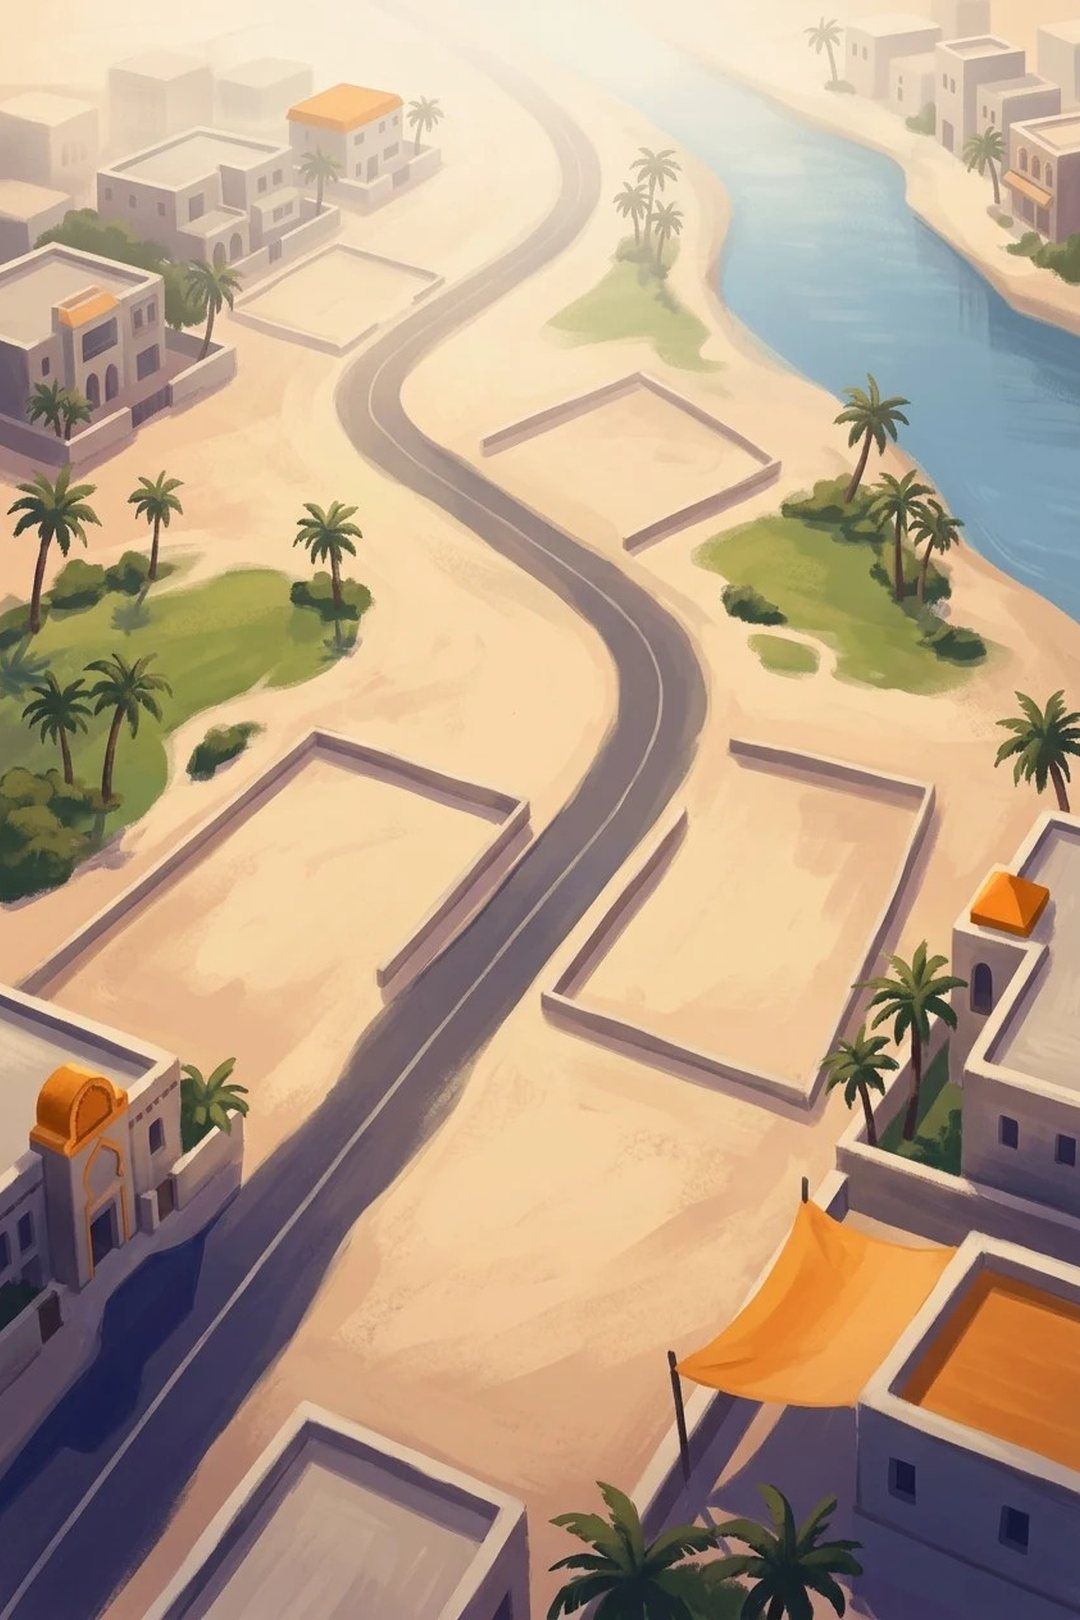
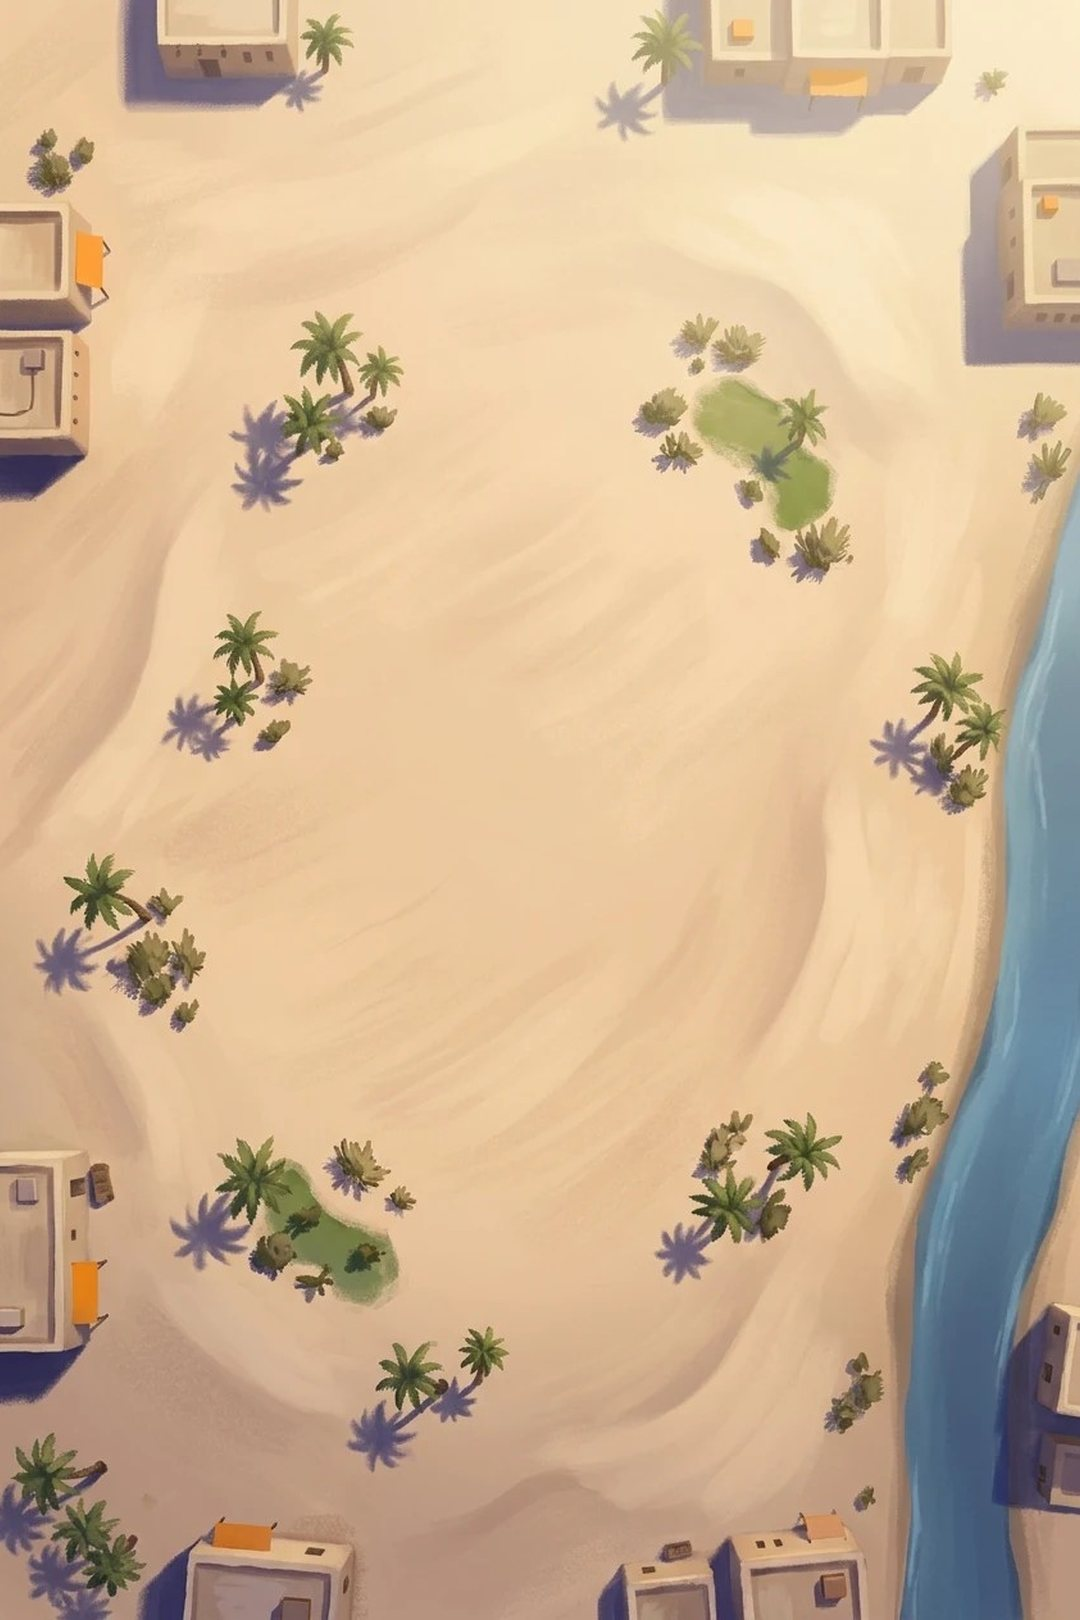
Art: roadless map background so the game's own road reads cleanly
Claude-Session: https://claude.ai/code/session_012DjuG3NFRcarMDadWwiyNj

diff --git a/tools/art/reports/map.md b/tools/art/reports/map.md
@@ -4,3 +4,9 @@
 ### map (188 KB)
 
 A gentle 3/4 aerial painted map of a sunny UAE town district seen from high above: soft sand terrain, patches of green parks, palm trees, a calm blue creek, low buildings at the edges, and one winding empty road from the bottom left to the top centre with open plots along it where schools will be placed (leave those plots empty). Morning light, soft haze toward the top. No buildings on the road's plots, no text, no labels.
+
+## Run 2026-11-26 14:40
+
+### map (137 KB)
+
+A gentle 3/4 aerial painted map of a sunny UAE town district seen from high above: soft sand terrain, patches of green parks, palm trees, a calm blue creek, low buildings at the edges, and one winding empty road from the bottom left to the top centre with open plots along it where schools will be placed (leave those plots empty). Morning light, soft haze toward the top. No buildings on the road's plots, no text, no labels.
